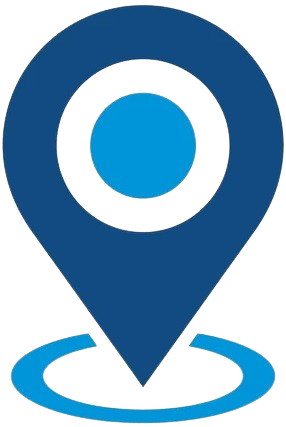
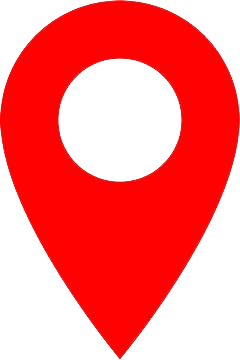
added new custom marker for searched location, nearest point one and nearest point two

diff --git a/src/Components/TransmissionModule/ExistingConnectionStatus.jsx b/src/Components/TransmissionModule/ExistingConnectionStatus.jsx
@@ -3,7 +3,9 @@ import L from 'leaflet';
 import 'leaflet-routing-machine';
 import 'leaflet-routing-machine/dist/leaflet-routing-machine.css';
 import WifiPointIcon from '../../assets/sadhin.png';
-import searchedPointIcon from '../../assets/selectedLocation.png';
+import SPIcon from '../../assets/selectedLocation.png';
+import NPIconOne from '../../assets/locaionOne.png';
+import NPIconTwo from '../../assets/locationTwo.png';
 import configUrl from '../../api/config';
 import './ExistingConnectionStatus.css';
 
@@ -22,11 +24,10 @@ const ExistingConnectionStatus = () => {
     });
     const [searchLatLng, setSearchLatLng] = useState(null);
     const [searchMarker, setSearchMarker] = useState(null);
+    const [newPos, setNewPos] = useState(null);
 
     const [routingControlOne, setRoutingControlOne] = useState(null);
     const [routingControlTwo, setRoutingControlTwo] = useState(null);
-
-    const [newPos, setNewPos] = useState(null);
 
     const [nearestLocationNameOne, setNearestLocationNameOne] = useState(null);
     const [nearestLocationNameTwo, setNearestLocationNameTwo] = useState(null);
@@ -53,7 +54,6 @@ const ExistingConnectionStatus = () => {
                 console.error("Error fetching data:", error);
             }
         };
-
         fetchData();
     }, []);
 
@@ -119,8 +119,20 @@ const ExistingConnectionStatus = () => {
     });
 
     // Create searchPointIcon icon
-    const searchIcon = L.icon({
-        iconUrl: searchedPointIcon,
+    const searchPointIcon = L.icon({
+        iconUrl: SPIcon,
+        iconSize: [25, 36]
+    });
+
+    // Create nearestPointIcon icon One
+    const nearestPointIcon1 = L.icon({
+        iconUrl: NPIconOne,
+        iconSize: [25, 36]
+    });
+
+    // Create nearestPointIcon icon Two
+    const nearestPointIcon2 = L.icon({
+        iconUrl: NPIconTwo,
         iconSize: [25, 36]
     });
 
@@ -141,12 +153,15 @@ const ExistingConnectionStatus = () => {
             // Initialize the geocoder control
             const geocoder = L.Control.Geocoder.nominatim();
 
+
             geocoder.geocode(searchLocation, (results) => {
                 if (results && results.length > 0) {
                     const { center } = results[0];
                     setSearchLatLng(center);
                     setNewPos(center)
                     myMap.setView(center);
+
+                    // .addTo(myMap);
 
                     // Calculate the routes to the nearest two store
                     const nearestStores = findNearestStores(center);
@@ -155,8 +170,6 @@ const ExistingConnectionStatus = () => {
                         const storeLocation1 = L.latLng(nearestStores[0].coordinates[1], nearestStores[0].coordinates[0]);
                         const storeLocation2 = L.latLng(nearestStores[1].coordinates[1], nearestStores[1].coordinates[0]);
 
-                        // console.log("Store location One and Two ==>>", storeLocation1, storeLocation2);
-
                         const routingControl1 = L.Routing.control({
                             waypoints: [L.latLng(center), storeLocation1],
                             routeWhileDragging: true,
@@ -164,6 +177,7 @@ const ExistingConnectionStatus = () => {
                             lineOptions: {
                                 styles: [{ color: '#5533FF', opacity: 0.8, weight: 5 }]
                             },
+                            createMarker: function () { return null; }
                         }).addTo(myMap);
 
                         const routingControl2 = L.Routing.control({
@@ -179,17 +193,26 @@ const ExistingConnectionStatus = () => {
                         setRoutingControlOne(routingControl1);
                         setRoutingControlTwo(routingControl2);
 
+                        if (searchMarker) {
+                            searchMarker.remove();
+                        }
+                        const searchMarkerIcon = L.marker(center, { icon: searchPointIcon, draggable: true }).addTo(myMap);
+                        searchMarkerIcon.on('dragend', function (event) {
+                            const newPos = event.target.getLatLng();
+                            setNewPos(newPos);
+                        });
+                        setSearchMarker(searchMarkerIcon);
+
                         if (nearestStoreMarkerOne) {
                             nearestStoreMarkerOne.remove();
                         }
-                        const nearestStoreMarker1 = L.marker(storeLocation1, { draggable: false }).addTo(myMap);
+                        const nearestStoreMarker1 = L.marker(storeLocation1, { icon: nearestPointIcon1, draggable: false }).addTo(myMap);
                         setNearestStoreMarkerOne(nearestStoreMarker1);
 
                         if (nearestStoreMarkerTwo) {
                             nearestStoreMarkerTwo.remove();
                         }
-
-                        const nearestStoreMarker2 = L.marker(storeLocation2, { draggable: false }).addTo(myMap);
+                        const nearestStoreMarker2 = L.marker(storeLocation2, { icon: nearestPointIcon2, draggable: false }).addTo(myMap);
                         setNearestStoreMarkerTwo(nearestStoreMarker2);
 
                         const point1 = center.distanceTo(storeLocation1);
@@ -216,14 +239,6 @@ const ExistingConnectionStatus = () => {
         };
     }, [searchData, storeData]);
 
-
-    if ((routingControlOne || routingControlTwo)) {
-        routingControlOne.on('routingstart', (event) => {
-            const newDraggedPos = event.waypoints[0].latLng;
-            setNewPos(newDraggedPos)
-        });
-    }
-
     useEffect(() => {
         try {
             if (newPos && (routingControlOne || routingControlTwo)) {
@@ -245,6 +260,7 @@ const ExistingConnectionStatus = () => {
                     lineOptions: {
                         styles: [{ color: '#5533FF', opacity: 0.8, weight: 5 }]
                     },
+                    createMarker: function () { return null; }
                 }).addTo(myMap);
 
                 const newRoutingControl2 = L.Routing.control({
@@ -260,17 +276,26 @@ const ExistingConnectionStatus = () => {
                 setRoutingControlOne(newRoutingControl1);
                 setRoutingControlTwo(newRoutingControl2);
 
+                if (searchMarker) {
+                    searchMarker.remove();
+                }
+                const searchMarkerIcon = L.marker(newPos, { icon: searchPointIcon, draggable: true }).addTo(myMap);
+                searchMarkerIcon.on('dragend', function (event) {
+                    const newPos = event.target.getLatLng();
+                    setNewPos(newPos);
+                });
+                setSearchMarker(searchMarkerIcon);
+
                 if (nearestStoreMarkerOne) {
                     nearestStoreMarkerOne.remove();
                 }
-                const nearestStoreMarker1 = L.marker(storeLocation1, { draggable: false }).addTo(myMap);
+                const nearestStoreMarker1 = L.marker(storeLocation1, { icon: nearestPointIcon1, draggable: false }).addTo(myMap);
                 setNearestStoreMarkerOne(nearestStoreMarker1);
 
                 if (nearestStoreMarkerTwo) {
                     nearestStoreMarkerTwo.remove();
                 }
-
-                const nearestStoreMarker2 = L.marker(storeLocation2, { draggable: false }).addTo(myMap);
+                const nearestStoreMarker2 = L.marker(storeLocation2, { icon: nearestPointIcon2, draggable: false }).addTo(myMap);
                 setNearestStoreMarkerTwo(nearestStoreMarker2);
 
                 const point1 = newPos.distanceTo(storeLocation1);
@@ -307,8 +332,7 @@ const ExistingConnectionStatus = () => {
 
     return (
         <div className='d-md-flex'>
-            <div className='formArea col-3'>
-
+            <div className='col-3 formArea'>
                 <div className='addreddBG p-3'>
                     <h3 className=' fw-bold text-primary'>Address</h3>
                     <form onSubmit={handleSubmit}>
